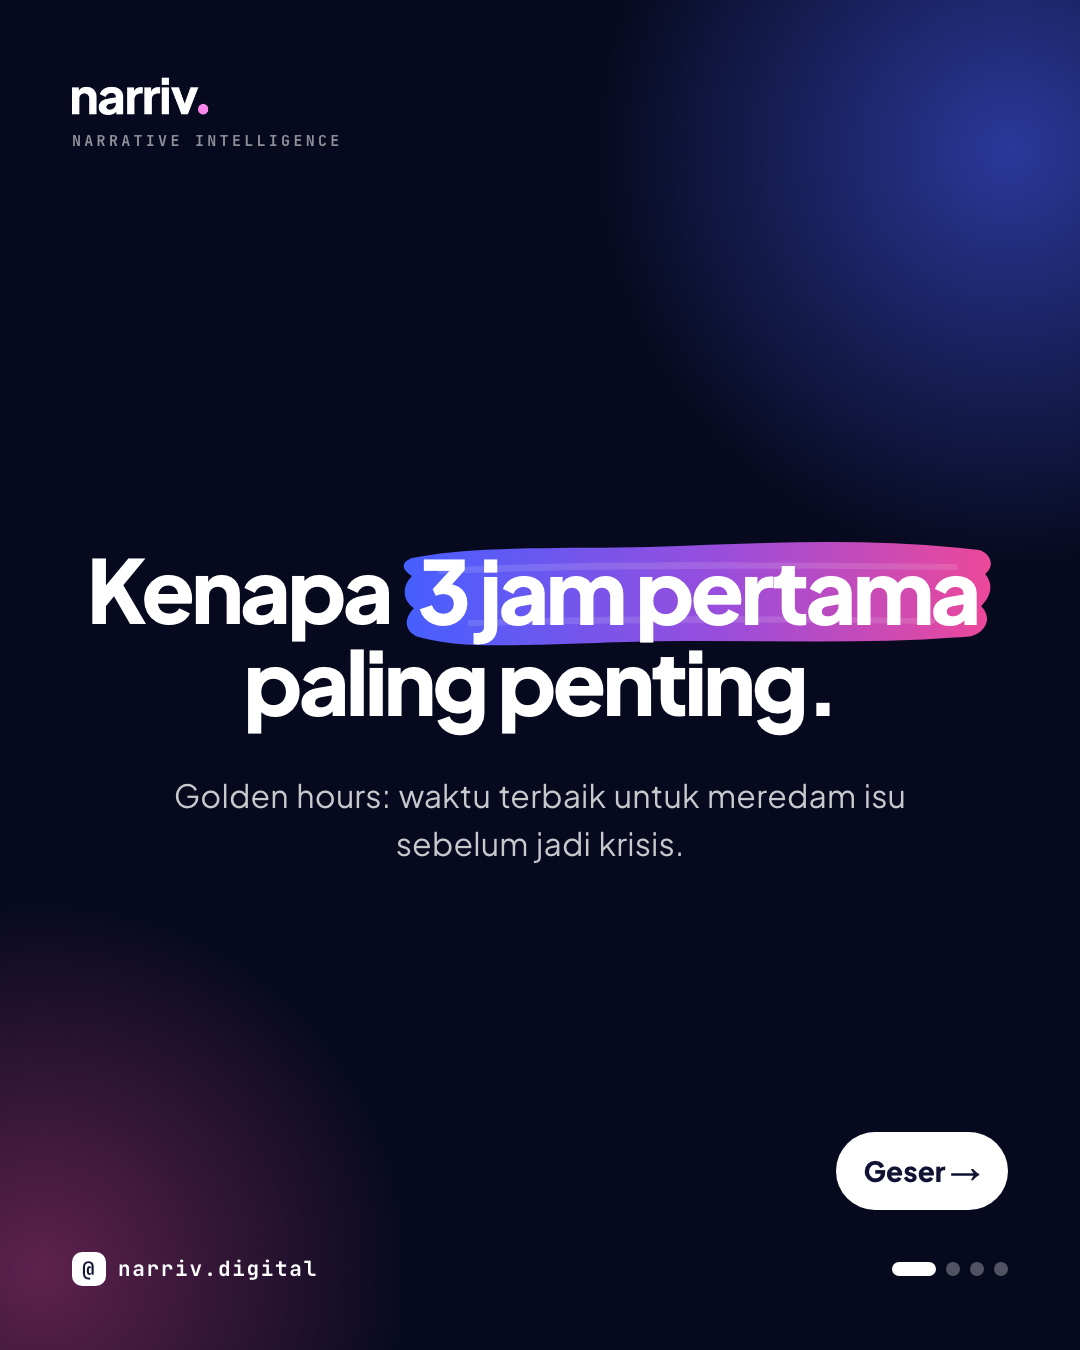
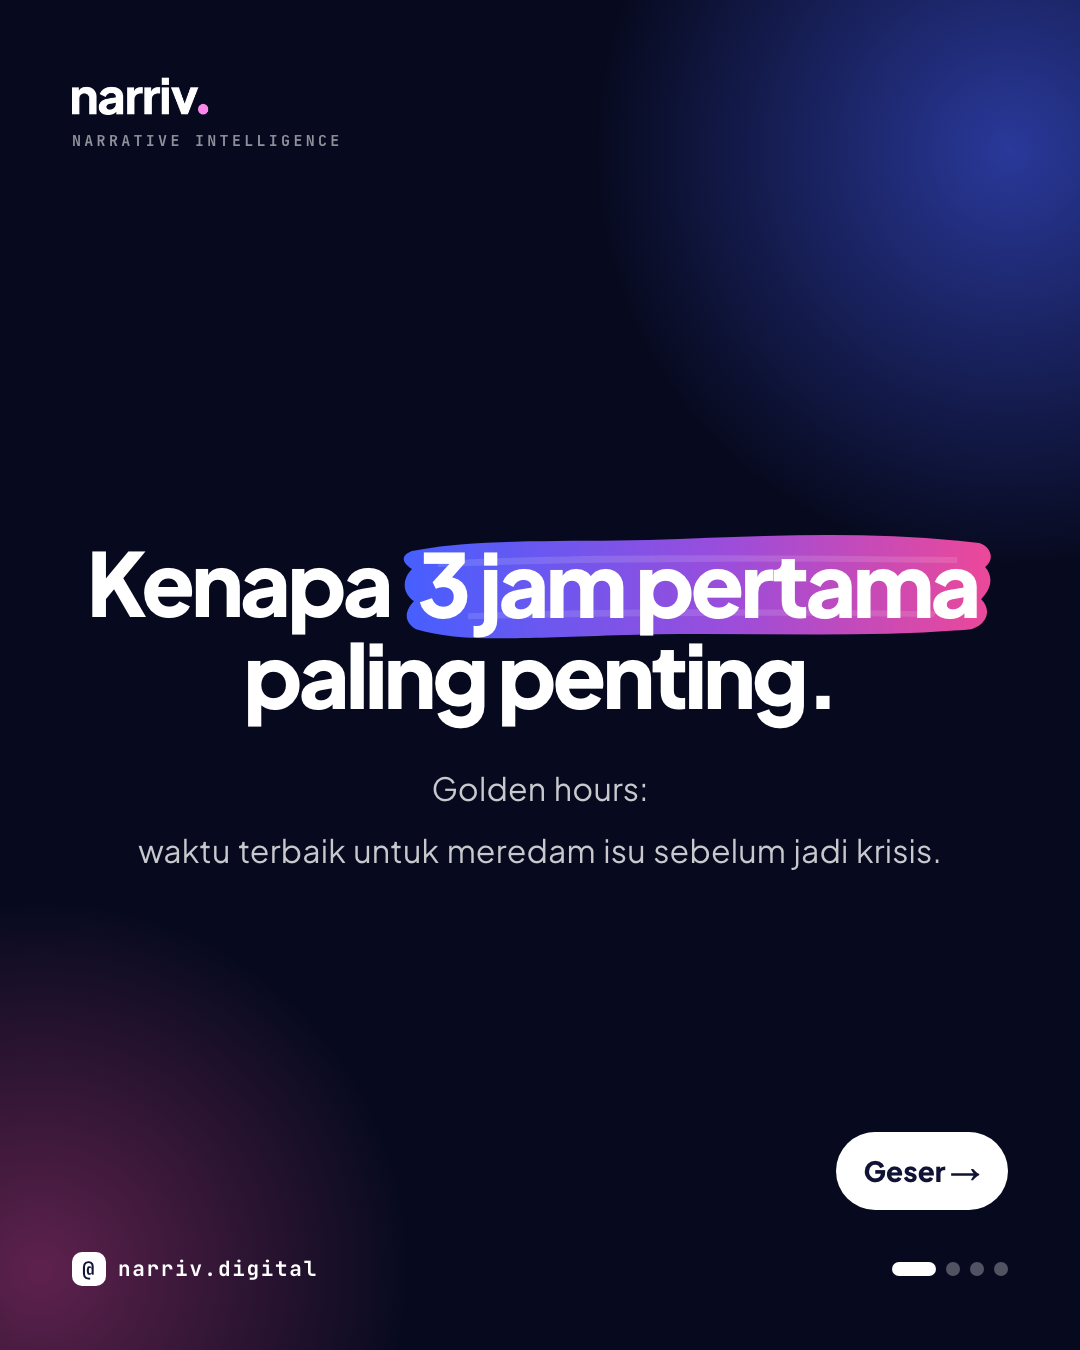
Education subtitles: new line after a colon too

Changed region(s): [[0.0917, 0.3733, 0.9167, 0.6533], [0.275, 0.56, 0.3056, 0.5911]]

diff --git a/frontend/app/pitch/social/edu/page.tsx b/frontend/app/pitch/social/edu/page.tsx
@@ -26,7 +26,7 @@ function Title({ kicker: _kicker, children, sub, dark, size = 80 }: { kicker: st
 
 /** Supporting text under a title: each sentence on its own line, airy spacing, kept narrow so lines stay short. */
 function Sub({ text, dark }: { text: string; dark?: boolean }) {
-  const sentences = text.split(/(?<=[.?!])\s+/).filter(Boolean);
+  const sentences = text.split(/(?<=[.?!:])\s+/).filter(Boolean);
   return (
     <div style={{ margin: "44px auto 0", maxWidth: 860, display: "grid", gap: 14, fontSize: 32, lineHeight: 1.5, letterSpacing: "0.005em", wordSpacing: "0.06em", color: dark ? "rgba(255,255,255,.78)" : MUTED }}>
       {sentences.map((x) => <p key={x} style={{ margin: 0 }}>{x}</p>)}
